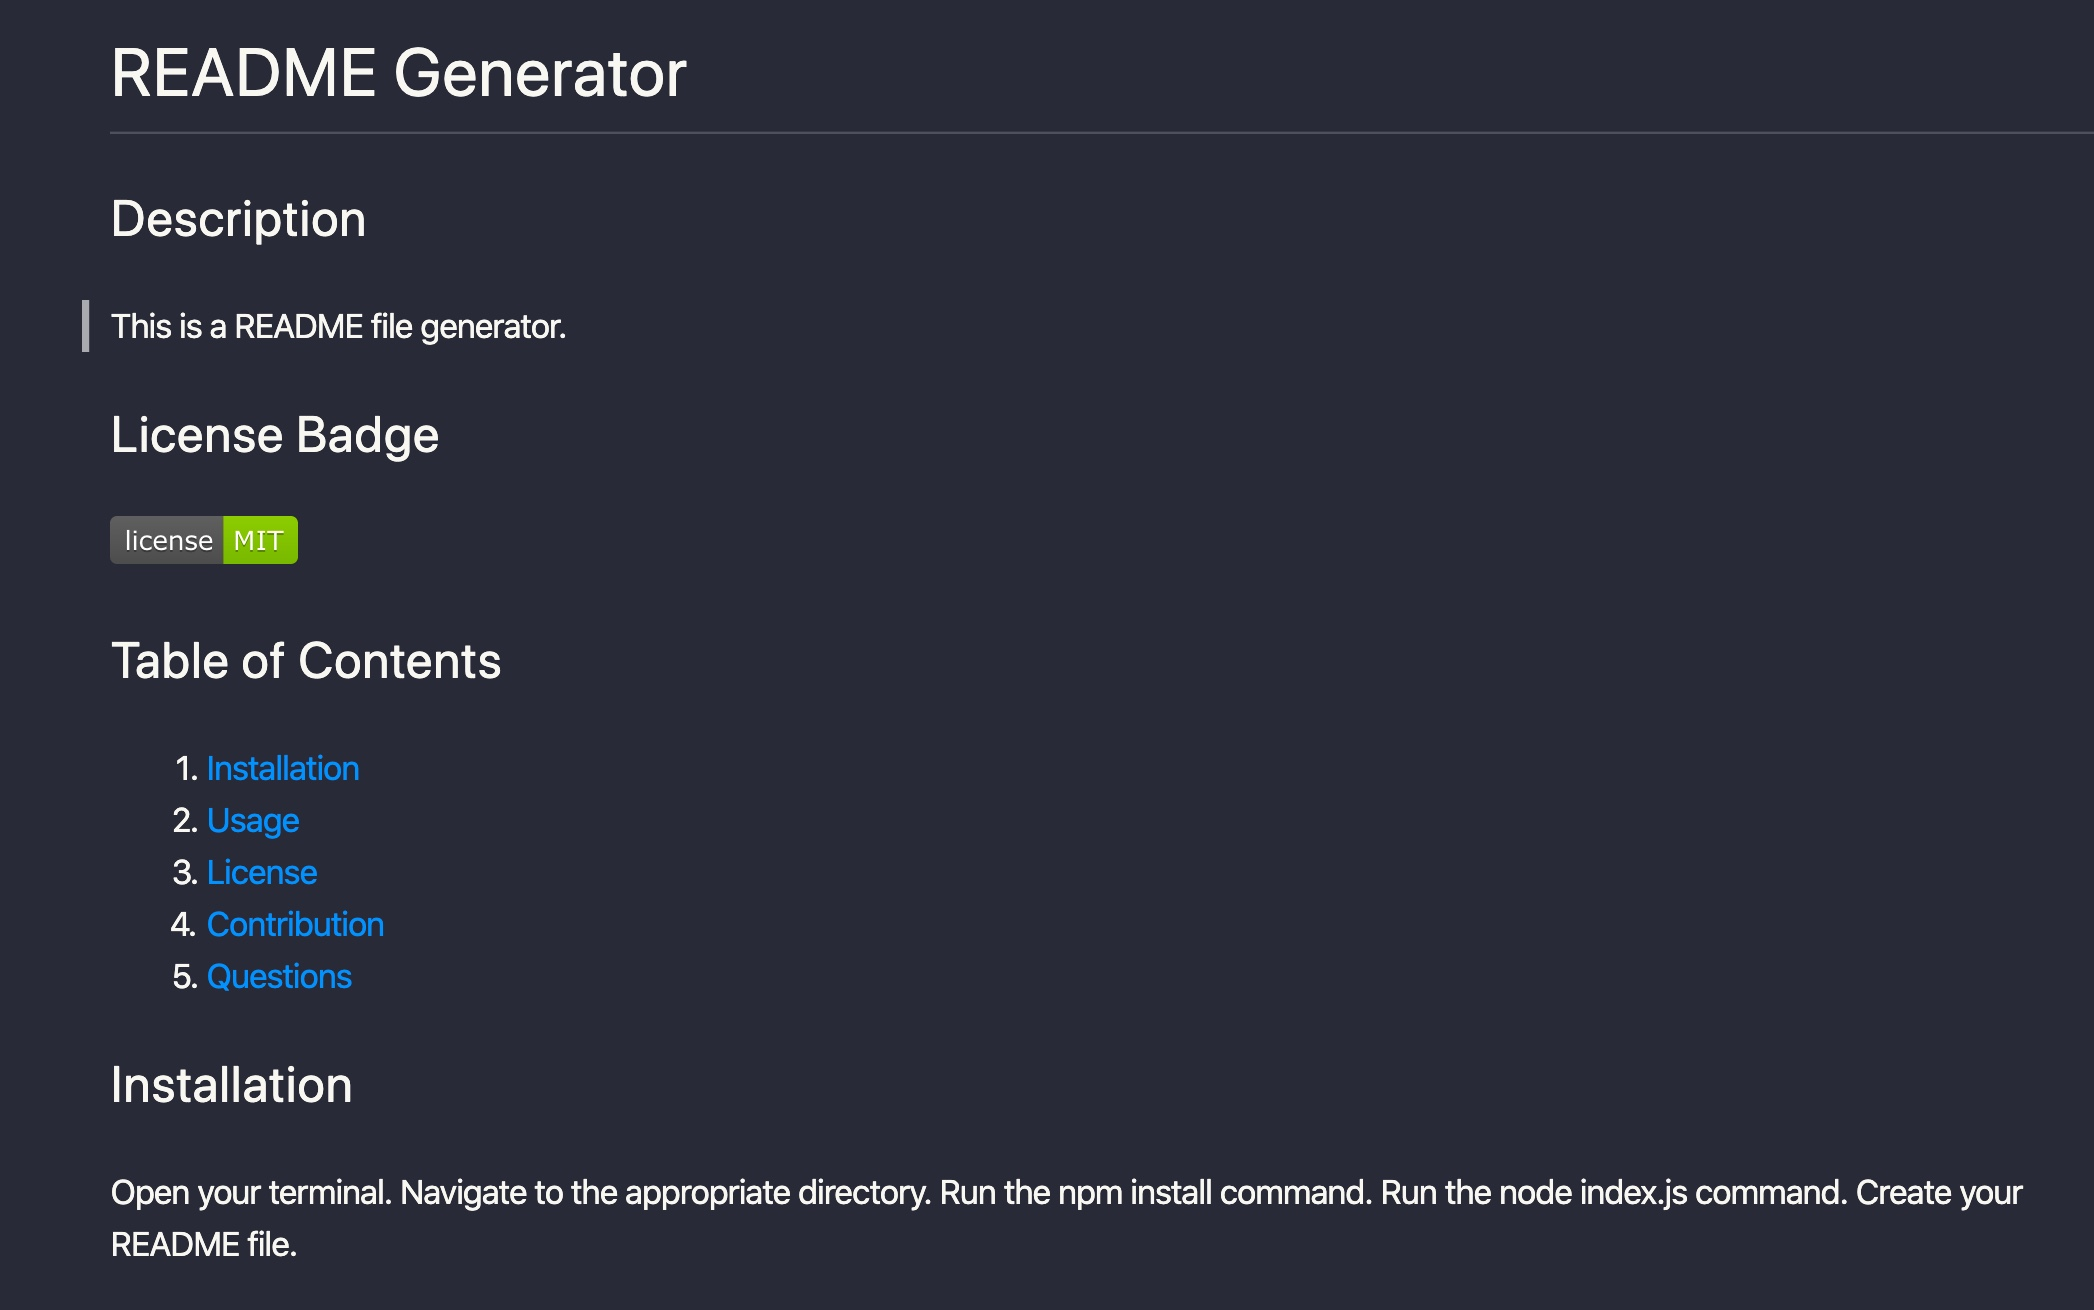
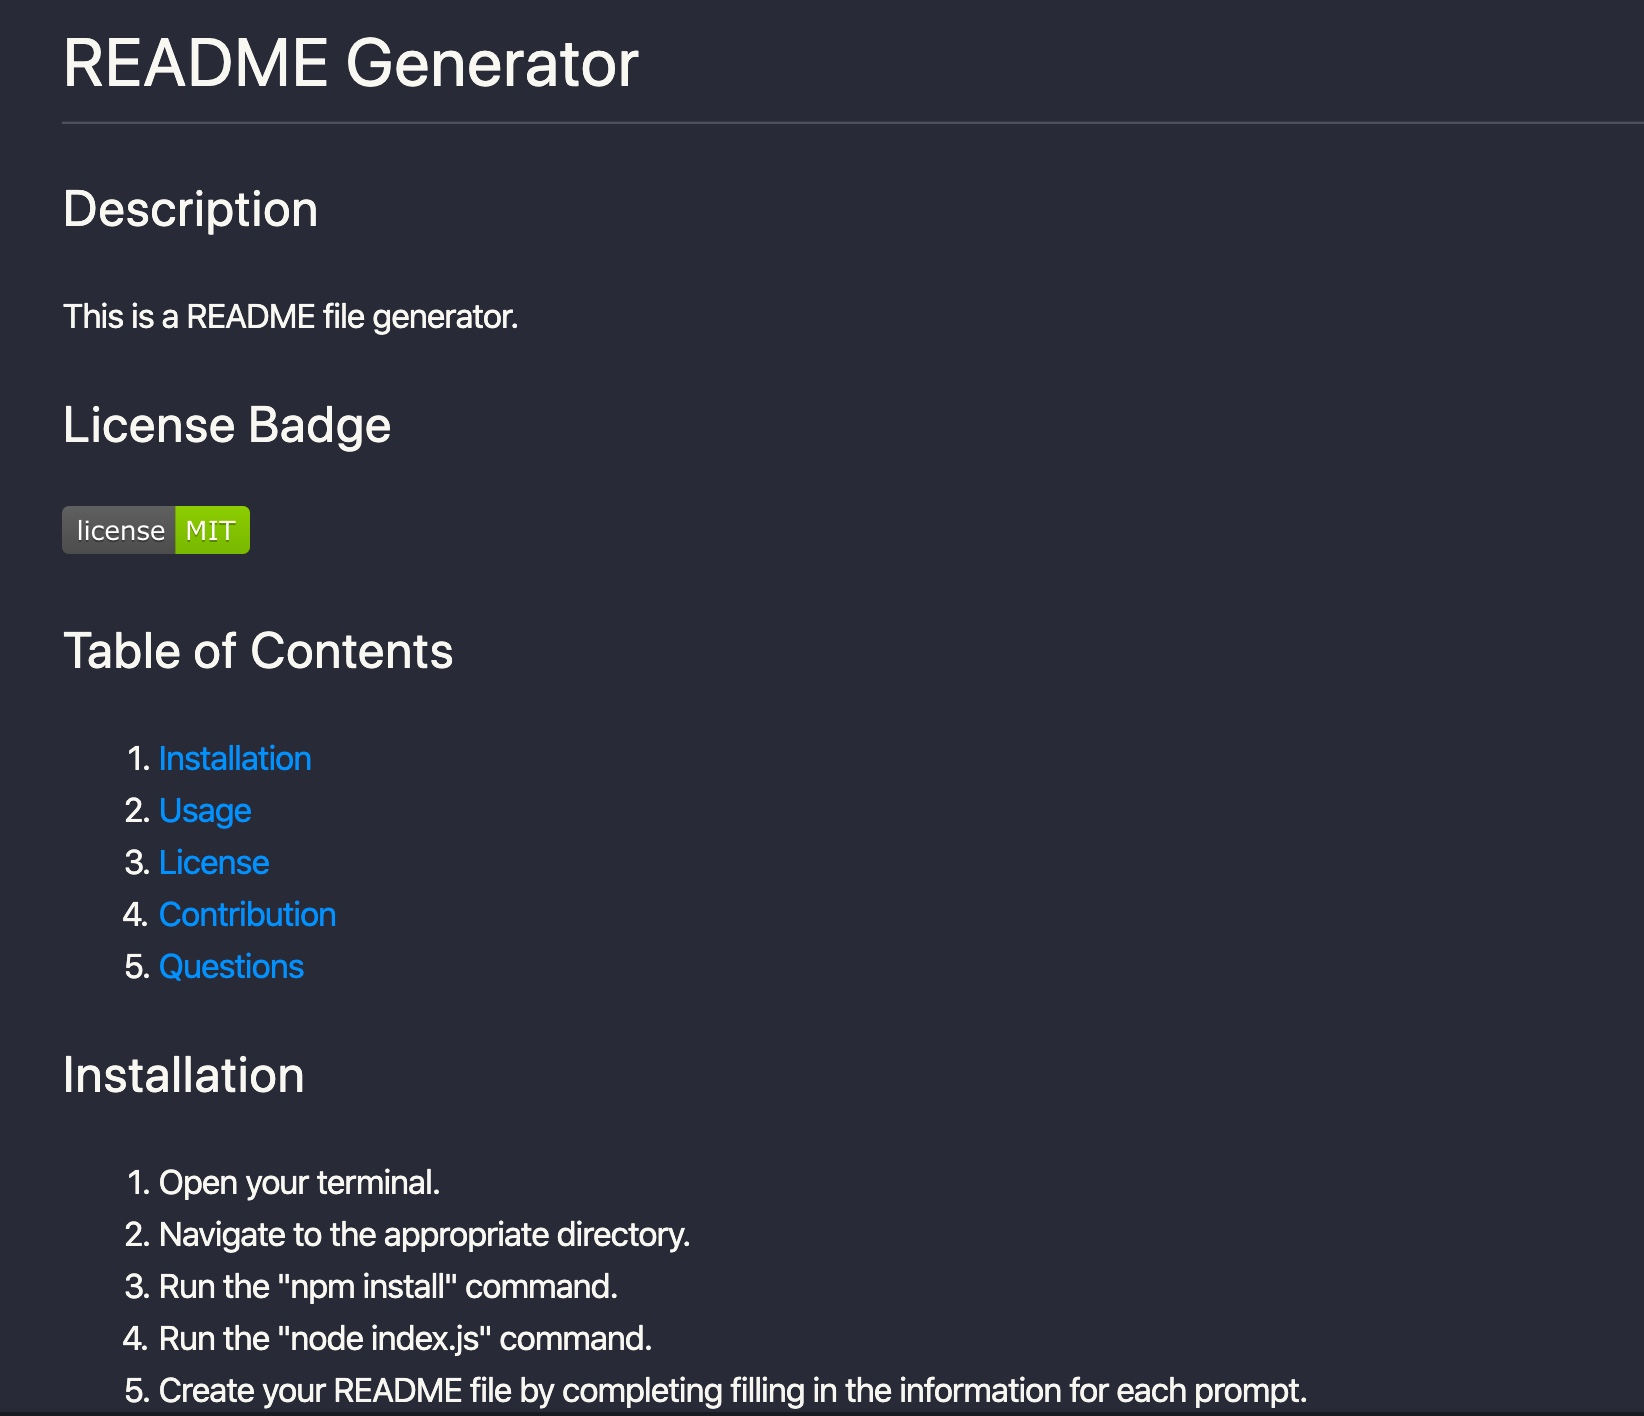
Additional updates to formatting of README file and updated screenshot.

Changed region(s): [[0.031, 0.2137, 0.9617, 1.0], [0.031, 0.0305, 0.4033, 0.0916], [0.031, 0.1221, 0.1861, 0.1832]]

diff --git a/Develop/README.md b/Develop/README.md
@@ -14,16 +14,25 @@
   5. [Questions](#Questions)
 
   ## Installation
-  Open your terminal. Navigate to the appropriate directory. Run the npm install command. Run the node index.js command. Create your README file.
+  1. Open your terminal.  
+  2. Navigate to the appropriate directory.  
+  3. Run the "npm install" command.  
+  4. Run the "node index.js" command. 
+  5. Create your README file by completing filling in the information for each prompt.
 
   ## Usage
-  Use this application to quickly create professional README files for your projects.
+  Use this application to quickly create professional looking README files for your projects.
 
   ## License
   MIT  ![License badge](https://img.shields.io/badge/license-MIT-green)
 
   ## Contribution
-  Contributions to this project are welcomed! Please use the following guidelines if you wish to contribute: Fork the project. Create your feature branch. Commit your changes. Push to the branch. Open a pull request.
+  Contributions to this project are welcomed! Please use the following guidelines if you wish to contribute:  
+  1. Fork the project.  
+  2. Create your feature branch.  
+  3. Commit your changes.  
+  4. Push to the branch.  
+  5. Open a pull request.
 
   ## Tests
   Not Applicable
